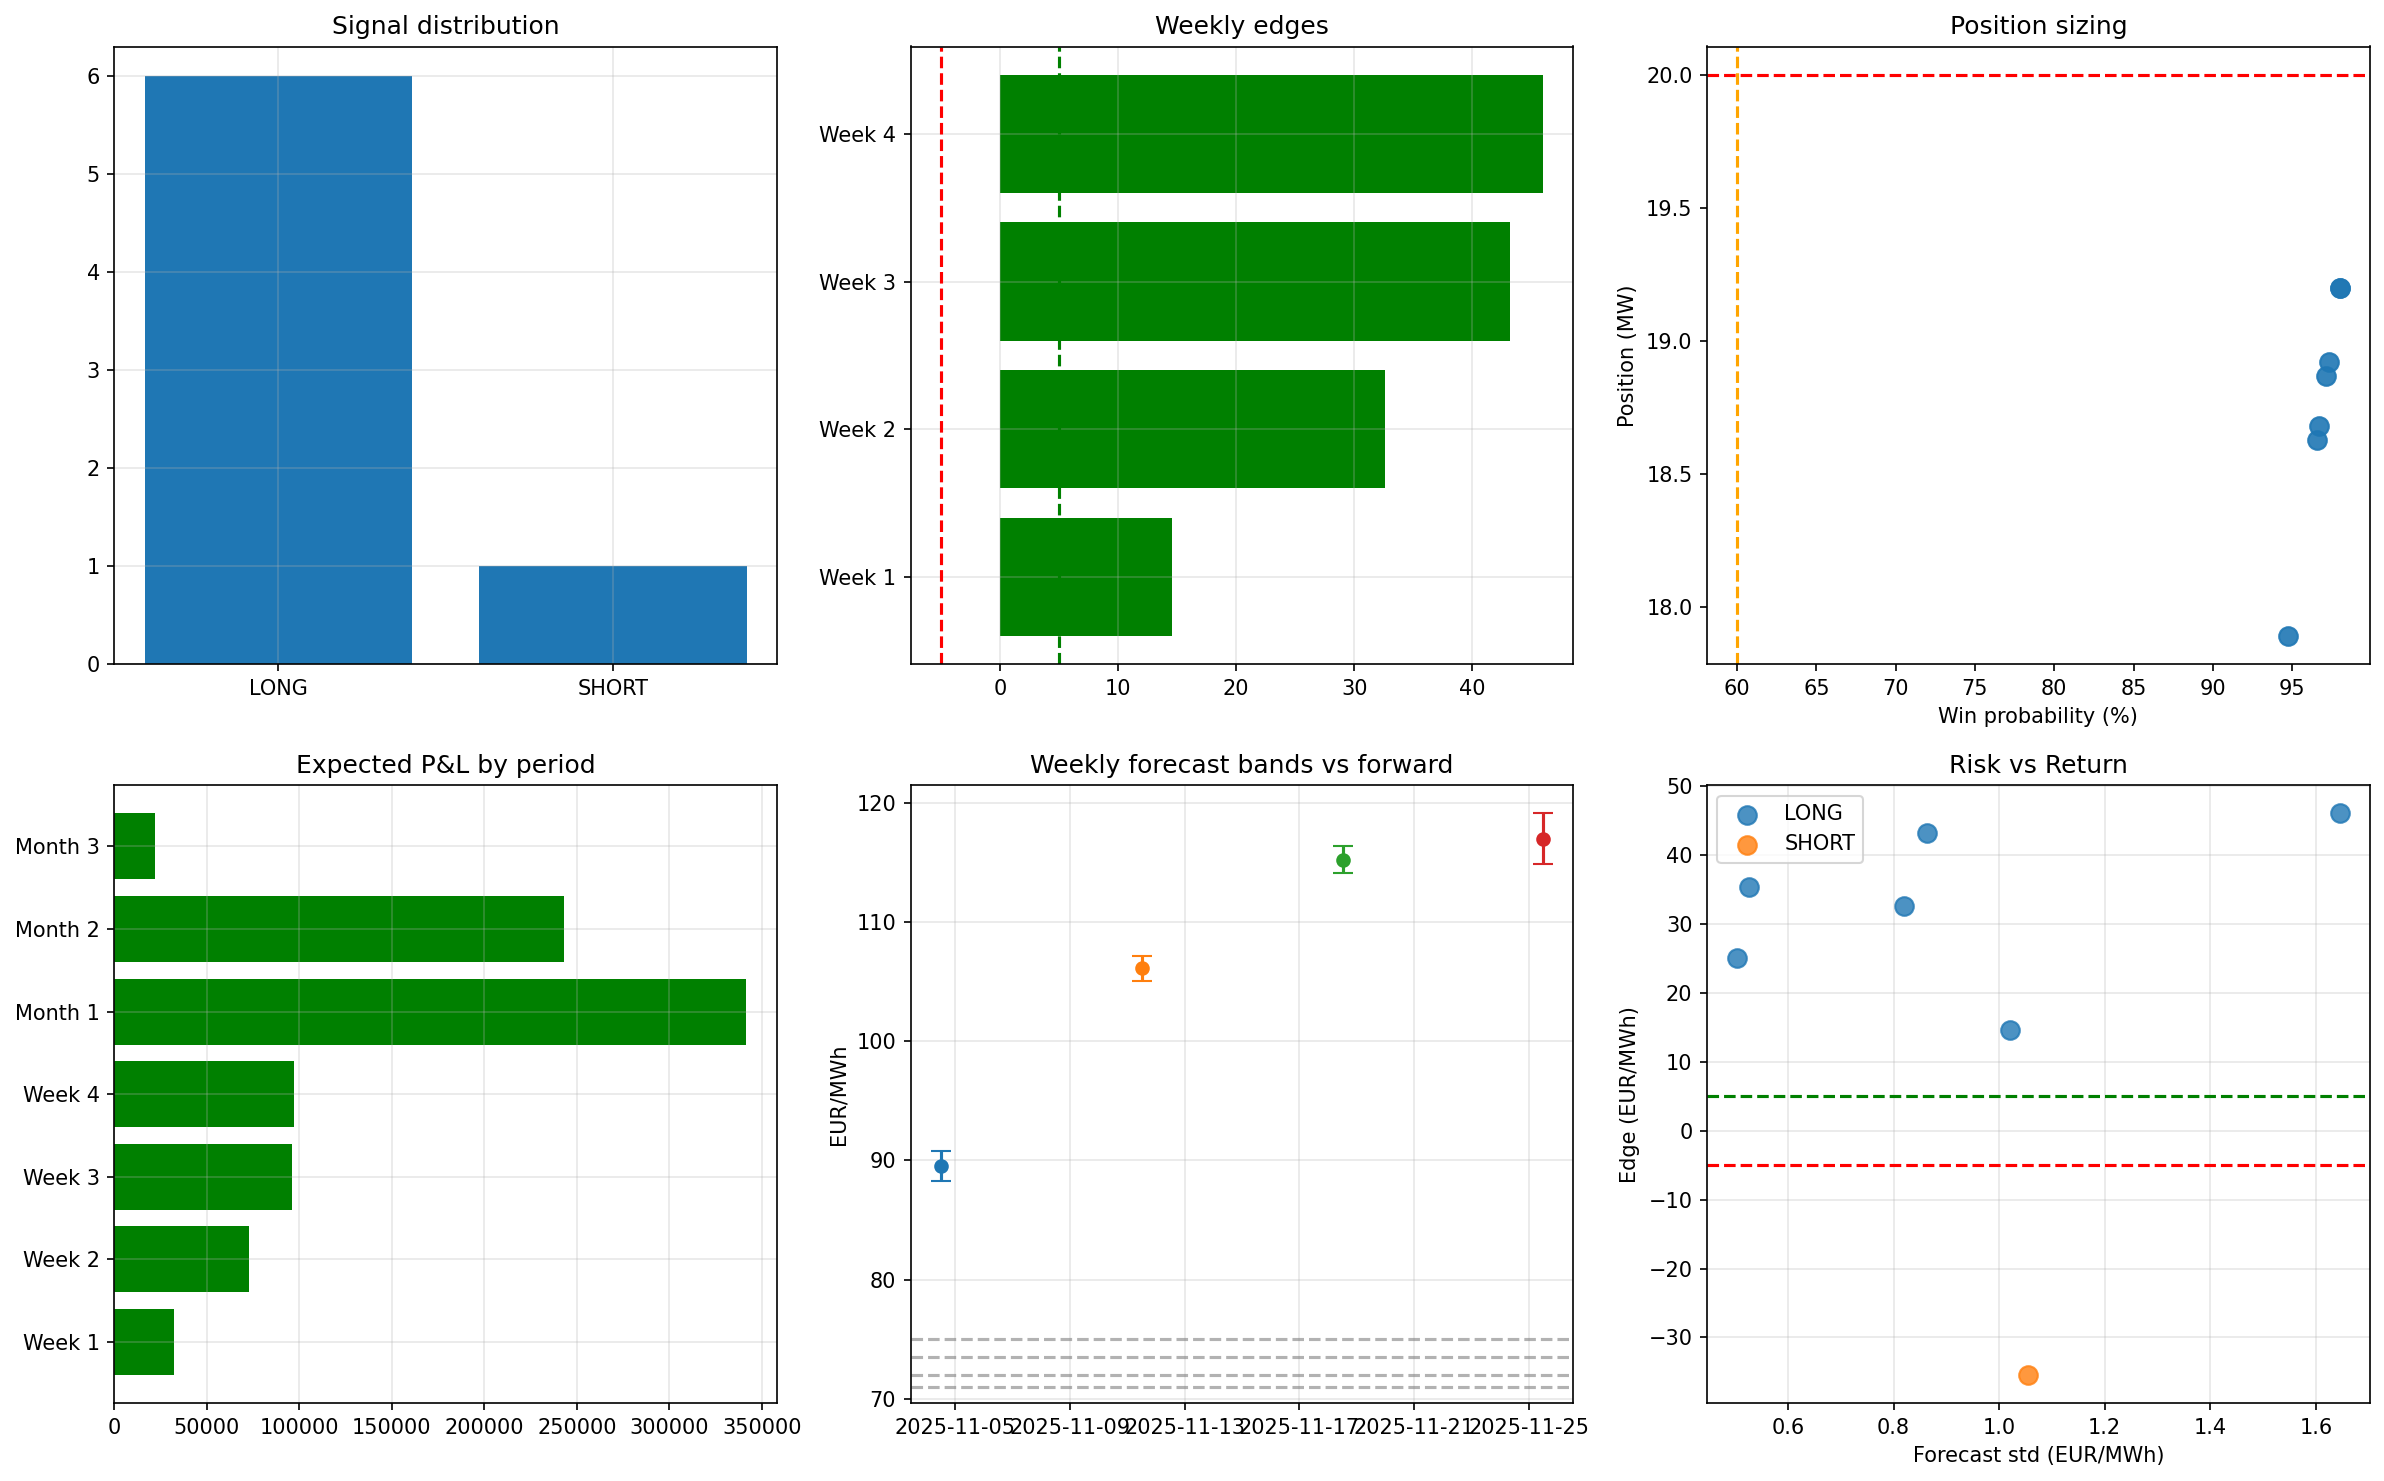
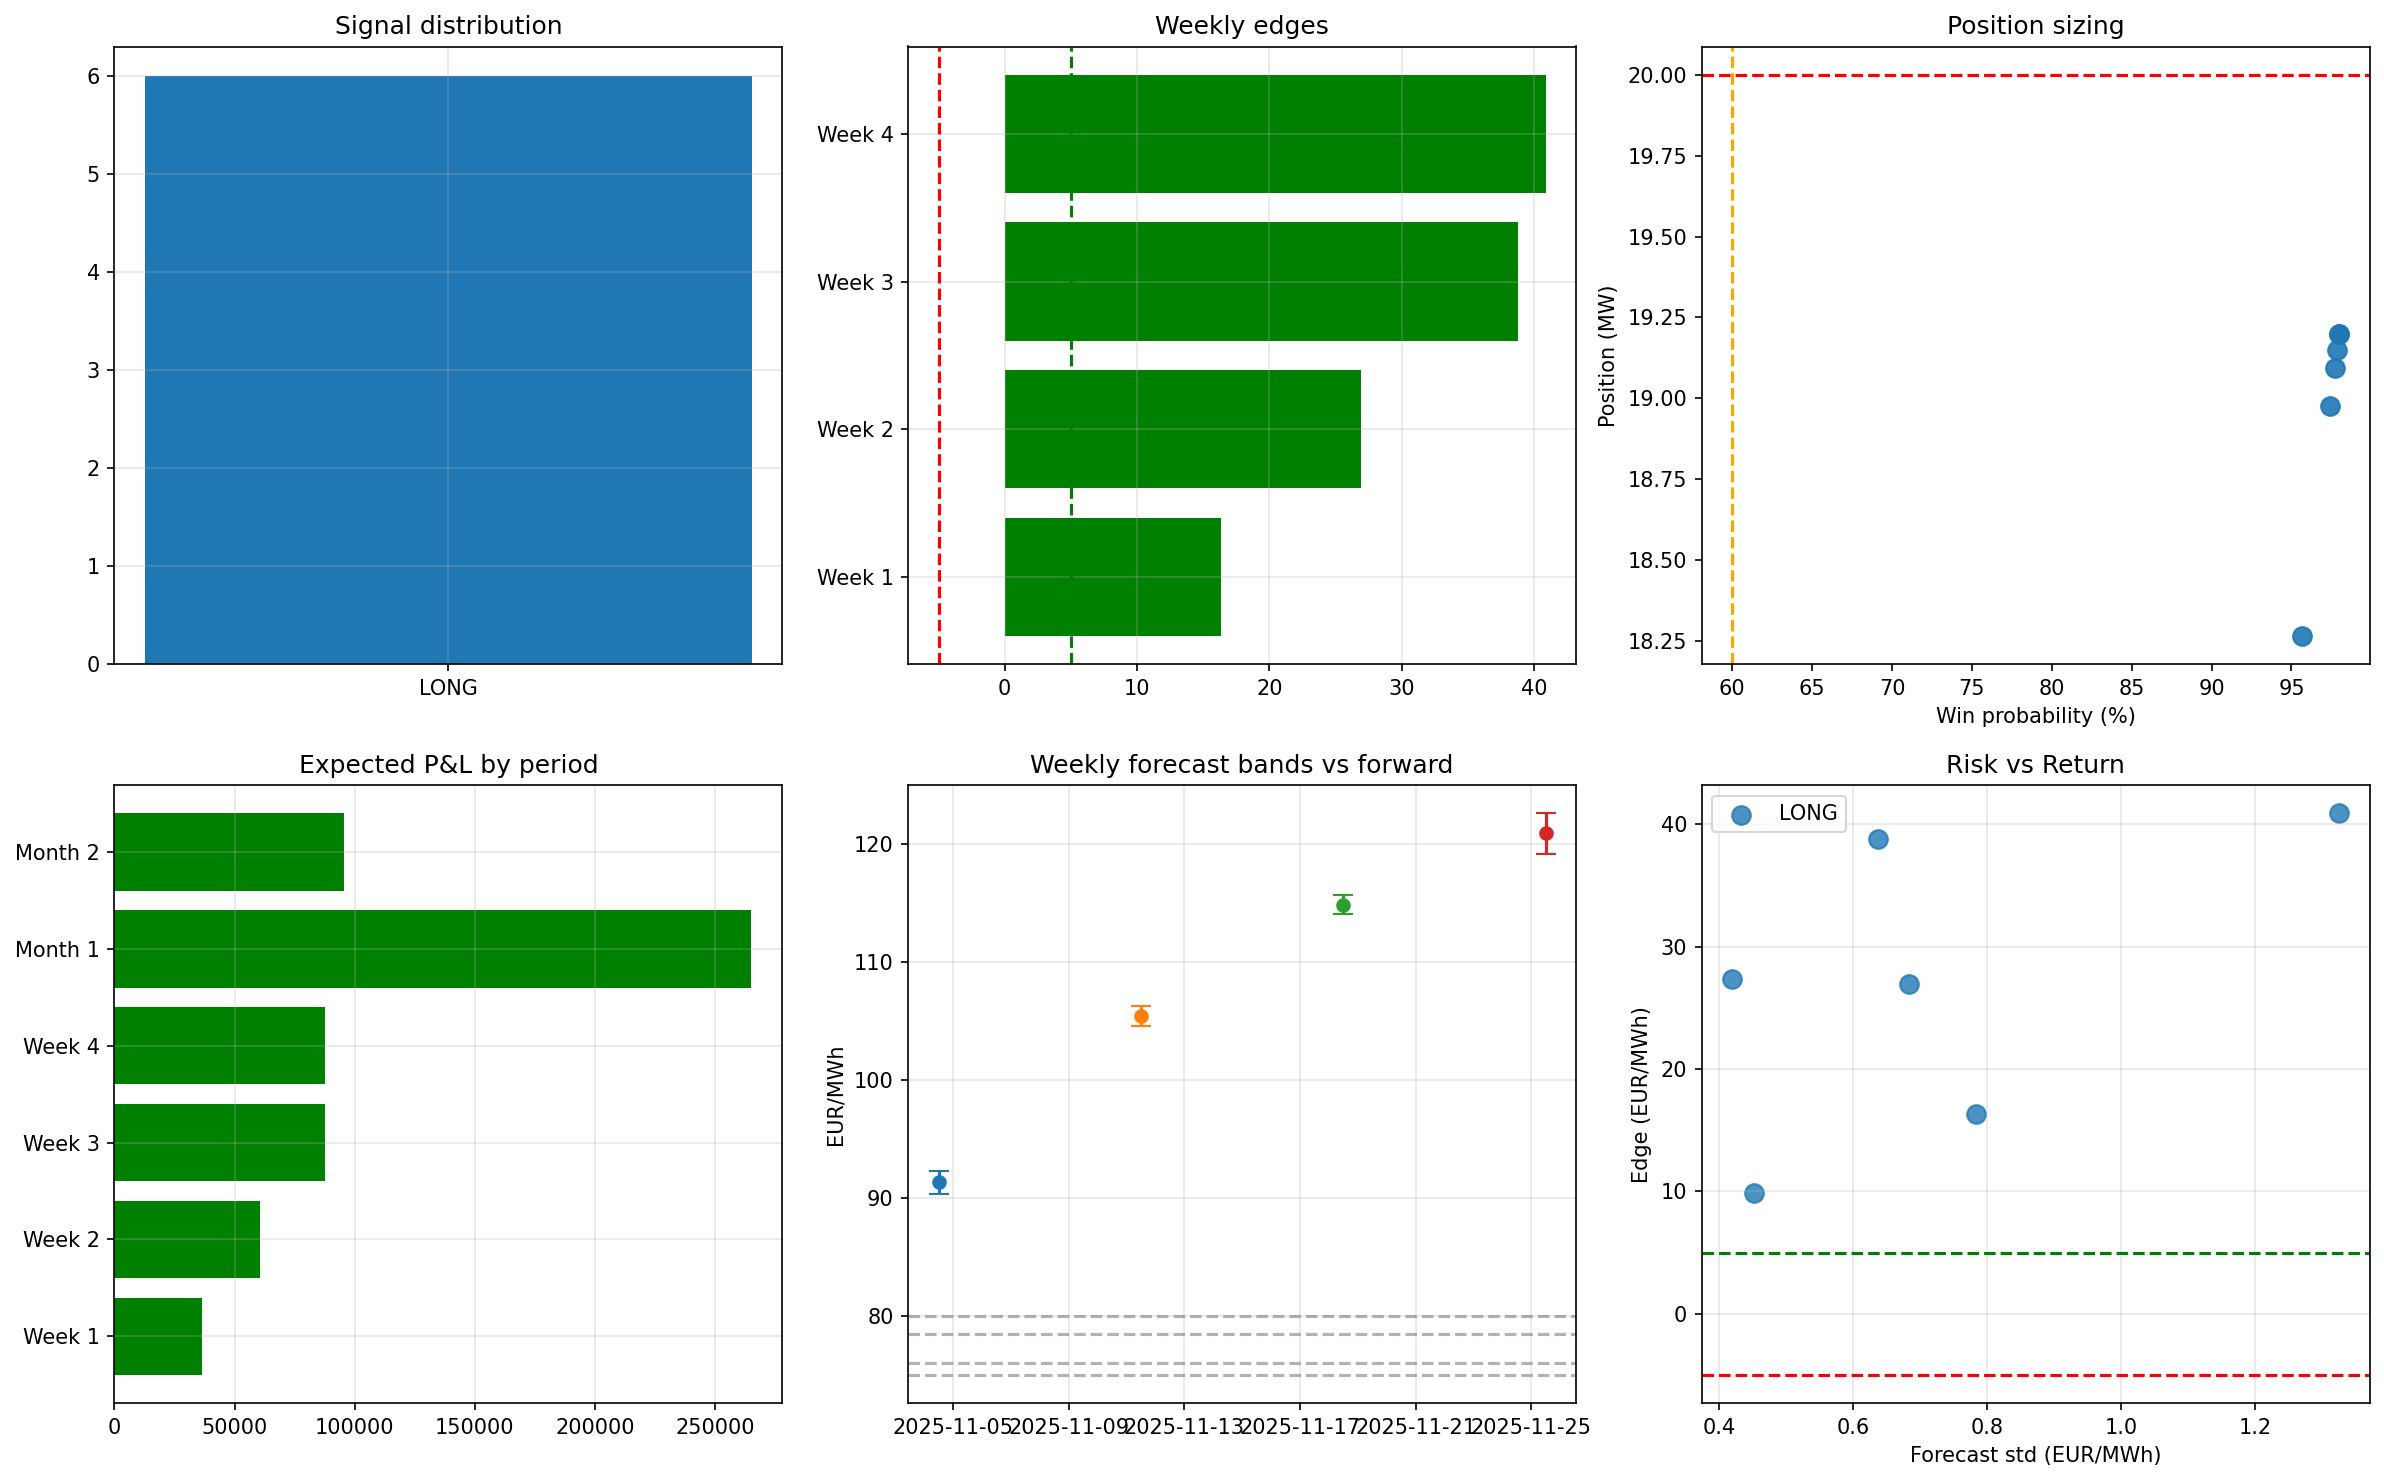
Part 3 updated

diff --git a/src/part_3.py b/src/part_3.py
@@ -1,9 +1,17 @@
-import os, math
-from datetime import timedelta
 import numpy as np
 import pandas as pd
 import matplotlib.pyplot as plt
+
 from scipy.stats import truncnorm
+import os, math, logging
+from datetime import timedelta
+
+# Setup logging
+logging.basicConfig(
+    level=logging.INFO,
+    format='[%(asctime)s] %(levelname)s: %(message)s',
+    datefmt='%Y-%m-%d %H:%M:%S'
+)
 
 # ---------------------------
 # Configuration (tweakable)
@@ -14,7 +22,7 @@ PNG_OUT = os.path.join(OUTPUT_DIR, "part3_trading_signals.png")
 CSV_OUT = os.path.join(OUTPUT_DIR, "part3_trading_signals.csv")
 REPORT_OUT = os.path.join(OUTPUT_DIR, "part3_trading_reports.txt")
 
-SIGNAL_THRESHOLD = 5.0           # EUR/MWh minimum edge to consider trading
+SIGNAL_THRESHOLD = 5.0          # EUR/MWh minimum edge to consider trading
 CONFIDENCE_THRESHOLD = 0.60     # minimum adjusted win probability to trade
 MAX_POSITION_MW = 20.0          # absolute cap on MW position
 MC_SAMPLES = 5000
@@ -26,10 +34,9 @@ MAX_EXPECTED_PNL_CAP = 5e6      # safety cap on expected P&L (EUR)
 FORWARD_PRICE_FALLBACK_DELTA_W = -3.0   # if forward not provided, fallback p50-3 for weeks
 FORWARD_PRICE_FALLBACK_DELTA_M = -5.0   # fallback for months
 
-# Example forward prices placeholder (replace by real fetch if available)
+# SIMULATION: Example forward prices placeholder (replace by real API-fetch if available)
 FORWARD_PRICES = {
-    'week_1': 75.0, 'week_2': 73.5, 'week_3': 72.0, 'week_4': 71.0,
-    'month_1': 70.0, 'month_2': 69.0, 'month_3': 68.5
+    'week_1': 75.0, 'week_2': 78.5, 'week_3': 76.0, 'week_4': 80.0, 'month_1': 79.5, 'month_2': 88.0
 }
 
 # ---------------------------
@@ -352,7 +359,7 @@ def generate_period_signals(preds_df, forward_prices):
         reports.append(report)
 
     # Monthly signals (30-day rolling windows)
-    for i in range(3):
+    for i in range(2):
         month_start = start_date + timedelta(days=30 * i)
         month_end = month_start + timedelta(days=30)
         mask = (preds_df['timestamp'] >= month_start) & (preds_df['timestamp'] < month_end)
@@ -394,7 +401,7 @@ def generate_period_signals(preds_df, forward_prices):
 # ---------------------------
 def create_plots(signals_df):
     if signals_df is None or len(signals_df) == 0:
-        print("No signals to plot.")
+        logging.warning("No signals to plot.")
         return
     fig, axes = plt.subplots(2, 3, figsize=(16, 10))
     ax = axes.flatten()
@@ -455,22 +462,22 @@ def create_plots(signals_df):
     plt.tight_layout()
     plt.savefig(PNG_OUT, dpi=150, bbox_inches='tight')
     plt.close(fig)
-    print(f"Saved plot to {PNG_OUT}")
+    logging.info(f"Saved plot to {PNG_OUT}")
 
 # ---------------------------
 # Main
 # ---------------------------
 def main():
     ensure_output_dir(OUTPUT_DIR)
-    print("Loading predictions:", PREDICTIONS_FILE)
+    logging.info(f"Loading predictions: {PREDICTIONS_FILE}")
     preds = safe_parse_predictions(PREDICTIONS_FILE)
-    print(f"Loaded {len(preds):,} hourly predictions from {preds['timestamp'].min().isoformat()} to {preds['timestamp'].max().isoformat()}")
+    logging.info(f"Loaded {len(preds):,} hourly predictions from {preds['timestamp'].min().isoformat()} to {preds['timestamp'].max().isoformat()}")
 
     signals_df, reports, calibration = generate_period_signals(preds, FORWARD_PRICES)
 
     # Save CSV & reports
     if signals_df is None or signals_df.empty:
-        print("No signals generated. Exiting.")
+        logging.warning("No signals generated. Exiting.")
         return
 
     signals_df.to_csv(CSV_OUT, index=False)
@@ -483,21 +490,15 @@ def main():
     total_neutral = int((signals_df['signal'] == 'NEUTRAL').sum())
     total_expected_pnl = float(signals_df['expected_pnl'].sum())
 
-    print("\n" + "="*70)
-    print("SUMMARY (Part 3)")
-    print("="*70)
-    print(f"Long: {total_long} | Short: {total_short} | Neutral: {total_neutral}")
-    print(f"Total expected P&L (conservative cap applied): {total_expected_pnl:,.0f} EUR")
+    logging.info("SUMMARY (Part 3)")
+    logging.info(f"Long: {total_long} | Short: {total_short} | Neutral: {total_neutral}")
+    logging.info(f"Total expected P&L (conservative cap applied): {total_expected_pnl:,.0f} EUR")
     if calibration is not None:
-        print(f"Calibration: P10 obs {calibration['p10_coverage']*100:.0f}% (target 10%), P90 obs {calibration['p90_coverage']*100:.0f}% (target 90%), N={calibration['n']}")
+        logging.info(f"Calibration: P10 obs {calibration['p10_coverage']*100:.0f}% (target 10%), P90 obs {calibration['p90_coverage']*100:.0f}% (target 90%), N={calibration['n']}")
 
     # plots
     create_plots(signals_df)
-
-    print("\nOutputs written:")
-    print("  •", CSV_OUT)
-    print("  •", REPORT_OUT)
-    print("  •", PNG_OUT)
+    logging.info("Part 3 completed.")
 
 if __name__ == "__main__":
     main()
